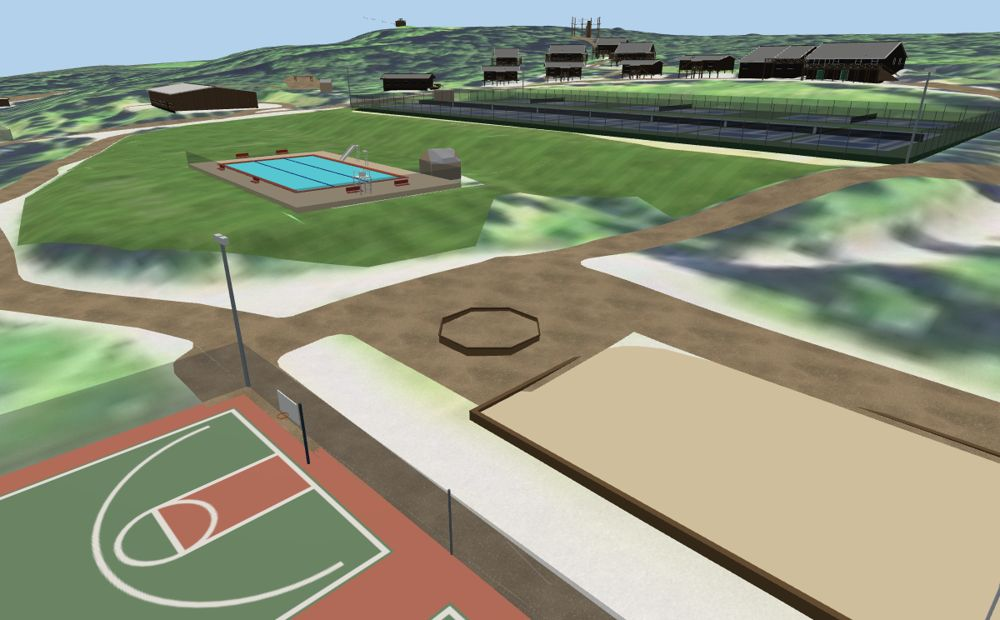
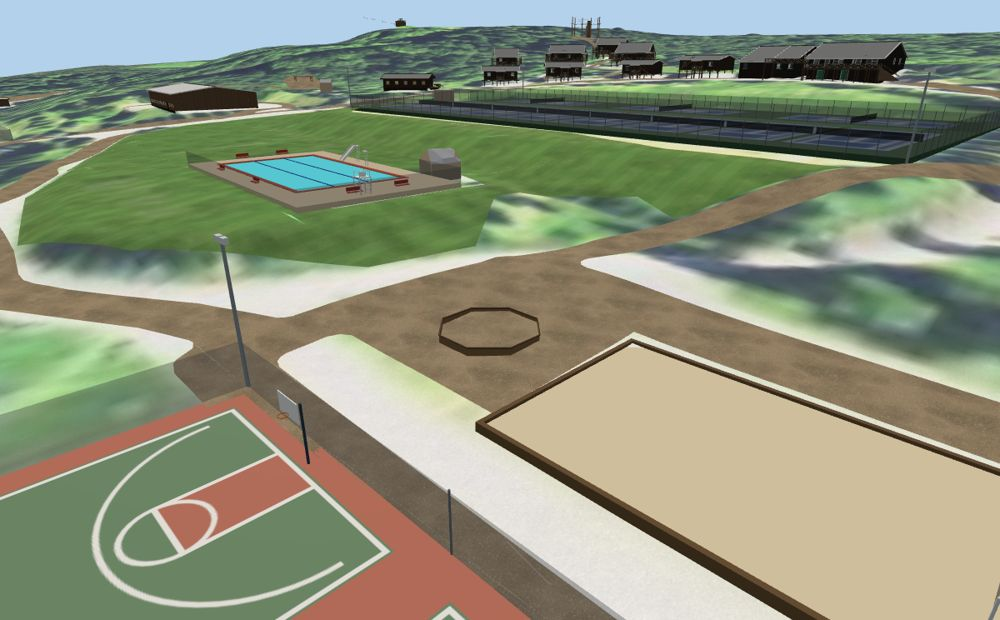
Changes page: feedback box per change + the notes each change answers (with See it links); volleyball trimmed to the aerial; v6 entries
Claude-Session: https://claude.ai/code/session_01PMvFX7qvKDYsteaty9bAo9

Changed region(s): [[0.465, 0.5823, 0.868, 1.0], [0.589, 0.5516, 1.0, 0.7661], [0.961, 0.95, 1.0, 1.0]]

diff --git a/index.html b/index.html
@@ -167,6 +167,7 @@ textarea,.in{background:light-dark(#ffffff,#0f1712)!important}
 .plist{width:300px;overflow:auto;border-left:1px solid var(--line);padding:10px;background:var(--sheet)}
 .pform{display:none;gap:8px;padding:10px 12px;border-top:1px solid var(--line);background:var(--sheet)}.pform.on{display:flex}.pform .in{flex:1}
 @media(max-width:700px){.pbody{flex-direction:column}.plist{width:auto;max-height:30vh;border-left:0;border-top:1px solid var(--line)}}
+.chgfb{margin-top:8px}.why{margin:8px 0}.why summary{cursor:pointer;font-weight:600}.why li{margin:6px 0}.chgfb textarea{width:100%;box-sizing:border-box}
 </style>
 </head>
 <body>
@@ -252,7 +253,7 @@ async function pull(){
     const strip=o=>JSON.stringify({...o,at:''});
     if(!pull.done){ pull.done=true; if(LS('lrv_data')&&(!mineSrv||strip(mineSrv.data||{})!==strip(mine))&&(Object.keys(mine.entries).length||Object.keys(mine.gfb||{}).length)) LS('lrv_dirty','1'); }
     if(mineSrv&&!dirty&&!Object.keys(mine.entries).length&&!Object.keys(mine.areas).length){ mine=Object.assign(mine,mineSrv.data||{}); $('rname').value=mine.name||''; $('ryears').value=mine.years||''; }
-    status(online?'Your notes save automatically.':'Connected. Your notes save automatically.'); online=true; refresh();
+    status(online?'Your notes save automatically.':'Connected. Your notes save automatically.'); online=true; refresh(); if(document.body.classList.contains('changes')&&!(document.activeElement&&document.activeElement.dataset&&document.activeElement.dataset.chg)) showChanges();
   }catch(e){ status("Can't reach saved notes right now. Your notes stay in this browser."); }
 }
 let online=false, saveT=null, saving=false, dirty=false;
@@ -482,9 +483,12 @@ function showSub(k){ const dd=$('dd'), g=DATA.groups.find(x=>x.name===dd.dataset
   dd.querySelectorAll('[data-sub]').forEach(b=>b.setAttribute('aria-expanded',String(+b.dataset.sub===k)));
   const item=x=>x.ref?itemBtn(x):(()=>{ const inner=(x.items||[]).map(item).join(''); return inner?`<div class="ddg"><div class="ddh">${esc(x.name)}</div>${inner}</div>`:''; })();
   $('ddsub').innerHTML=(it.items||[]).map(item).join(''); $('ddsub').dataset.cur=k; }
+function chgFb(ver,i){ const k=`chg-${ver}-${i}`, mineT=((mine.entries||{})[k]||{}).text||'';
+  const oth=others.map(o=>({w:who(o),t:((o.entries||{})[k]||{}).text})).filter(x=>x.t);
+  return `<div class="chgfb">${oth.map(x=>`<p class="hint"><b>${esc(x.w)}:</b> ${esc(x.t)}</p>`).join('')}<textarea class="in" rows="2" data-chg="${k}" placeholder="Was this change done right? Tell us what's off.">${esc(mineT)}</textarea></div>`; }
 function showChanges(){
   closeDD(); disposeSpheres(); document.body.classList.add('changes'); const C=DATA.changes||[];
-  $('changes').innerHTML=`<h2>What's changed in the model</h2><p class="blurb">Each update to the model, with before and after pictures. Comment on any of them like a normal view.</p>`+(C.length?C.slice().reverse().map(v=>`<h3 style="margin-top:18px">${esc(v.version)} · ${esc(v.date||'')}</h3>${(v.items||[]).map(it=>`<div class="chg"><div class="by">${esc(it.place||'')}</div><b>${esc(it.title)}</b>${it.note?`<p class="hint">${esc(it.note)}</p>`:''}<div class="media"><div class="pane flat"><img src="${esc(it.before)}" alt="Before"><span class="tag">Before</span></div><div class="pane flat"><img src="${esc(it.after)}" alt="After"><span class="tag">After</span></div></div></div>`).join('')}`).join(''):'<p class="by">No model updates yet. They will show up here after the first round of fixes.</p>');
+  $('changes').innerHTML=`<h2>What's changed in the model</h2><p class="blurb">Each update to the model, with before and after pictures. Comment on any of them like a normal view.</p>`+(C.length?C.slice().reverse().map(v=>`<h3 style="margin-top:18px">${esc(v.version)} · ${esc(v.date||'')}</h3>${(v.items||[]).map((it,ii)=>`<div class="chg"><div class="by">${esc(it.place||'')}</div><b>${esc(it.title)}</b>${it.note?`<p class="hint">${esc(it.note)}</p>`:''}${(it.notes||[]).length?`<details class="why"><summary>Why: ${it.notes.length} note${it.notes.length>1?'s':''} this change answers</summary><ul>${it.notes.map(n=>`<li><b>${esc(n.who)}:</b> ${esc(n.t)}${n.area?` <button class="small" data-goarea="${esc(n.area)}" data-govid="${esc(n.view||'')}">See it${n.label?` (${esc(n.label)})`:''}</button>`:''}</li>`).join('')}</ul></details>`:''}<div class="media"><div class="pane flat"><img src="${esc(it.before)}" alt="Before"><span class="tag">Before</span></div><div class="pane flat"><img src="${esc(it.after)}" alt="After"><span class="tag">After</span></div></div>${chgFb(v.version,ii)}</div>`).join('')}`).join(''):'<p class="by">No model updates yet. They will show up here after the first round of fixes.</p>');
   try{ history.replaceState(null,'','#changes'); }catch(e){} window.scrollTo({top:0});
 }
 function openPicker(btn){ const P=$('picker'); P.dataset.id=btn.dataset.pick; P.dataset.mode=btn.dataset.mode;
@@ -535,7 +539,7 @@ function refresh(){ if(!area) return; const id=curE()&&curE().id; buildViews(); 
   if((spheres&&curE()&&id===curE().id)||typing){ paintPins(); paintOthers(); paintPhotos(); if(!typing) paintGallery(); } else { renderView(); paintGallery(); } }
 
 /* ---------- events ---------- */
-document.addEventListener('input',e=>{
+document.addEventListener('input',e=>{ if(e.target.dataset&&e.target.dataset.chg){ const k=e.target.dataset.chg; (mine.entries??={})[k]={...(mine.entries[k]||{pins:[],photos:[]}),text:e.target.value,ver:DATA.version}; queueSave(); return; }
   const t=e.target, c=curE();
   if(t.id==='rname'||t.id==='ryears'){ mine[t.id==='rname'?'name':'years']=t.value.trim(); queueSave(); }
   else if(t.id==='etext'){ E(c.id).text=t.value; E(c.id).ver=VER(); queueSave(); }
@@ -587,6 +591,7 @@ document.addEventListener('click',async e=>{
     closePicker(); paintGallery(); }
   else if(t.dataset.pg!==undefined&&t.closest('#picker')){ pickGroup(+t.dataset.pg); }
   else if(t.dataset.galmove&&isOwner){ const gal={...(ADM.gal||{})}; gal[t.dataset.galmove]={to:t.dataset.to,at:Date.now()}; saveAdm({gal}); toast('Moved to '+placeName(t.dataset.to)); }
+  else if(t.dataset.goarea){ setArea(t.dataset.goarea, t.dataset.govid||null); window.scrollTo({top:0}); }
   else if(t.id==='planbtn'){ openPlanner(); }
   else if(t.id==='planclose'){ $('planner').classList.remove('on'); pPending=null; $('pform').classList.remove('on'); }
   else if(t.id==='psave'){ const l=$('plabel').value.trim(); if(!l){ toast('Give the spot a name'); return; } (mine.req360??=[]).push({id:rid(),x:+(PM.x0+pPending.px/PM.S).toFixed(1),y:+(PM.y1-pPending.py/PM.S).toFixed(1),label:l,at:new Date().toISOString()}); pPending=null; $('pform').classList.remove('on'); queueSave(); paintPlan(); toast('Pin saved'); }

diff --git a/model/campbuildings.js b/model/campbuildings.js
@@ -15,7 +15,7 @@ export const EXTRAS = [ { type: 'flagpole', name: 'Flagpole (left)', map: [1390.
   { type: 'tetherball', name: 'Tetherball (cabins 2 & 3)', map: [1393.5, 1496.75] },
   // ---- Sports Center zone (NAIP 2019 outlines; Ghost photos IMG p00653/p00428/p00301) ----
   { type: 'courts', name: 'Basketball courts', map: [1682.5, 1570.5], angleDeg: 0, w: 55, d: 31, n: 3, pad: 0.35 },
-  { type: 'sandcourt', name: 'Volleyball (sand)', map: [1688.5, 1600.5], angleDeg: 0, w: 43, d: 15, nets: [0], pad: 0.4 },   // pad above the 0.25 m slope so the sand reads as one surface (Henry)   // Henry: one net
+  { type: 'sandcourt', name: 'Volleyball (sand)', map: [1688.5, 1599.5], angleDeg: 0, w: 41, d: 14, nets: [0], pad: 0.4 },   /* sand extent from the 2019 aerial: x 1668-1709, y 1592.5-1606.5 (Henry: v5 made it run too long) */   // pad above the 0.25 m slope so the sand reads as one surface (Henry)   // Henry: one net
   { type: 'gaga', name: 'Gaga court', map: [1660.5, 1600.5], angleDeg: 0, r: 3.6, h: 0.8 },   // Henry: octagonal gaga court at the end of the volleyball area (round feature in NAIP)
   { type: 'bungee', name: 'Bungee Trampoline', map: [1641.0, 1569.0], angleDeg: 0, h: 8, r: 4.2 },
   { type: 'pavilion', name: 'Bungee pavilion', map: [1649.6, 1555.6], angleDeg: 0, w: 8.1, d: 9.3, eave: 2.6, top: 4.8, octagon: true, r: 4.4 },
